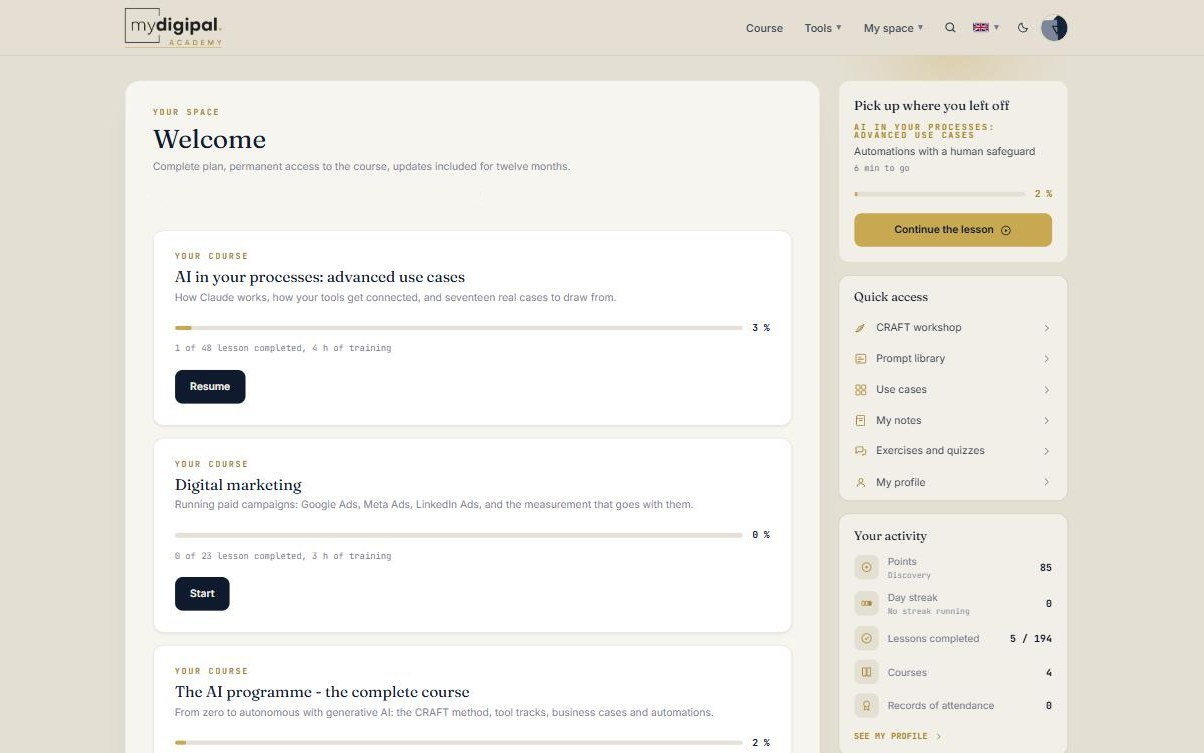
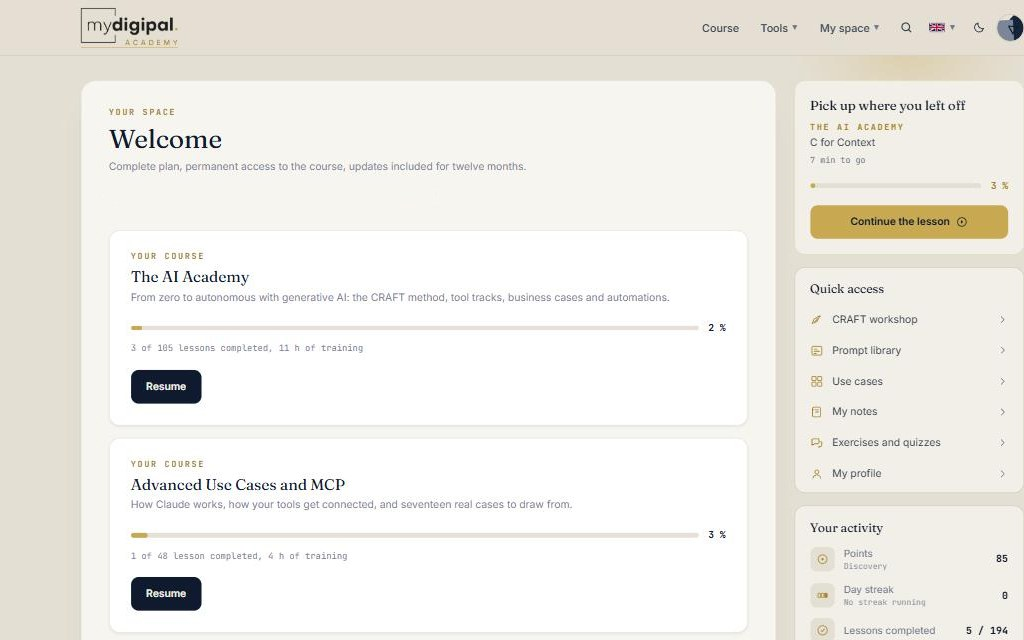
Academy : Sophie remplace Camille, capture du tableau de bord avec les parcours renommes

diff --git a/src/components/academy/copy.ts b/src/components/academy/copy.ts
@@ -100,7 +100,7 @@ const FR = {
     titre: 'Ce qu’il y a dedans.',
     sous: 'L’espace apprenant, tel que vous l’ouvrirez. Survolez un élément : il vous dit à quoi il sert.',
     nav: ['Parcours', 'Outils', 'Mon espace'],
-    bandeau: { kicker: 'Mon espace', titre: 'Bonjour Camille', ligne: 'Formule complète, accès permanent au parcours.' },
+    bandeau: { kicker: 'Mon espace', titre: 'Bonjour Sophie', ligne: 'Formule complète, accès permanent au parcours.' },
     cartes: {
       kicker: 'Votre parcours',
       reprendre: 'Reprendre',
@@ -329,7 +329,7 @@ const FR = {
       outils: (n: number) => `${n} outils connectés`,
     },
     rail: {
-      nom: 'Camille R.',
+      nom: 'Sophie L.',
       points: 'points',
       avant: (n: string, rang: string) => `${n} points avant ${rang}`,
       dernier: 'Dernier rang atteint',
@@ -411,7 +411,7 @@ const FR = {
     titre: 'Elle l’imprime et la pose sur le bureau de son directeur.',
     surtitre: 'Attestation d’usage professionnel de l’intelligence artificielle',
     decernee: 'décernée à',
-    nom: 'Camille Rouvière',
+    nom: 'Sophie Lambert',
     corps: (lecons: number, modules: number, exercices: number, relus: number) =>
       `pour avoir mené le parcours complet : ${lecons} leçons en ${modules} modules, ${exercices} exercices rendus dont ${relus} relus et corrigés, et la construction d’un serveur MCP en état de marche.`,
     signature: 'Paul André',
@@ -588,7 +588,7 @@ const EN: Jour30Copy = {
     titre: 'What is inside.',
     sous: 'The learner space, as you will open it. Hover an element: it tells you what it is for.',
     nav: ['Course', 'Tools', 'My space'],
-    bandeau: { kicker: 'My space', titre: 'Hello Camille', ligne: 'Complete plan, permanent access to the course.' },
+    bandeau: { kicker: 'My space', titre: 'Hello Sophie', ligne: 'Complete plan, permanent access to the course.' },
     cartes: {
       kicker: 'Your course',
       reprendre: 'Resume',
@@ -814,7 +814,7 @@ const EN: Jour30Copy = {
       outils: (n: number) => `${n} tools connected`,
     },
     rail: {
-      nom: 'Camille R.',
+      nom: 'Sophie L.',
       points: 'points',
       avant: (n: string, rang: string) => `${n} points to ${rang}`,
       dernier: 'Top rank reached',
@@ -895,7 +895,7 @@ const EN: Jour30Copy = {
     titre: 'She prints it and puts it on her director’s desk.',
     surtitre: 'Certificate of professional use of artificial intelligence',
     decernee: 'awarded to',
-    nom: 'Camille Rouvière',
+    nom: 'Sophie Lambert',
     corps: (lecons: number, modules: number, exercices: number, relus: number) =>
       `for completing the full course: ${lecons} lessons across ${modules} modules, ${exercices} exercises submitted of which ${relus} reviewed and corrected, and a working MCP server built.`,
     signature: 'Paul André',

diff --git a/src/components/academy/Retournement.tsx b/src/components/academy/Retournement.tsx
@@ -8,11 +8,11 @@ import Renard from './Renard';
 
 /**
  * Le retournement : le second et dernier moment d'audace de la page. Quand la
- * section entre dans l'écran, la carte de Camille se vide sous les yeux et
+ * section entre dans l'écran, la carte de Sophie se vide sous les yeux et
  * devient celle du visiteur. Les trente cases s'éteignent à rebours, le renard
  * revient à son premier état, le nom devient « Vous ».
  *
- * La carte est AUTONOME : elle porte l'état final de Camille et le ramène à
+ * La carte est AUTONOME : elle porte l'état final de Sophie et le ramène à
  * zéro. Elle fonctionne donc à toutes les largeurs, y compris quand le rail de
  * la section précédente est passé au-dessus du contenu.
  */

diff --git a/CLAUDE.md b/CLAUDE.md
@@ -218,7 +218,7 @@ La page vit sur `/fr/academy` et `/en/academy` (`src/pages/[lang]/academy.astro`
   sont une COPIE : une évolution se fait dans l'app d'abord, puis se reporte ici (le script de
   portage est dans la mémoire de session du 25/08, il ne remplace pas la relecture).
 - **Aucun chiffre n'est écrit ici.** Prix, hausse du 1er octobre, leçons, minutes, grille de
-  points, trente jours de Camille, verbatims et liens vers l'app viennent de
+  points, trente jours de Sophie, verbatims et liens vers l'app viennent de
   `GET https://academy.mydigipal.com/api/academy/public/jour30?lang=` : lu au build (10 s de
   délai, puis l'instantané `src/data/academy/jour30-{fr,en}.json` prend le relais, le build ne
   tombe jamais), puis relu dans le navigateur par l'îlot. Rafraîchir les instantanés de temps en
